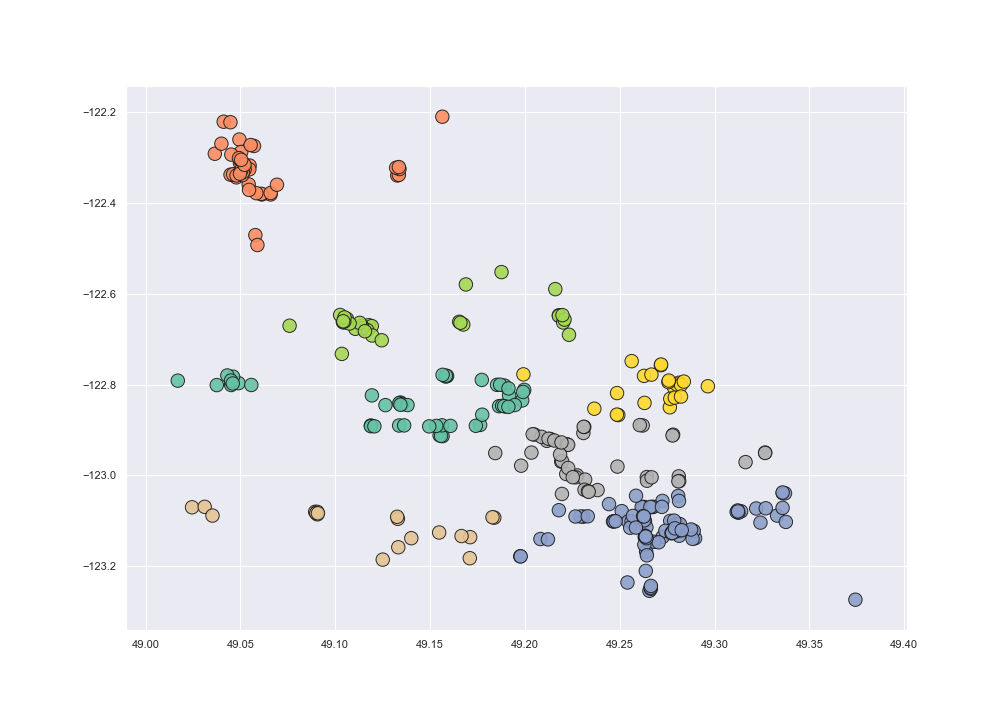
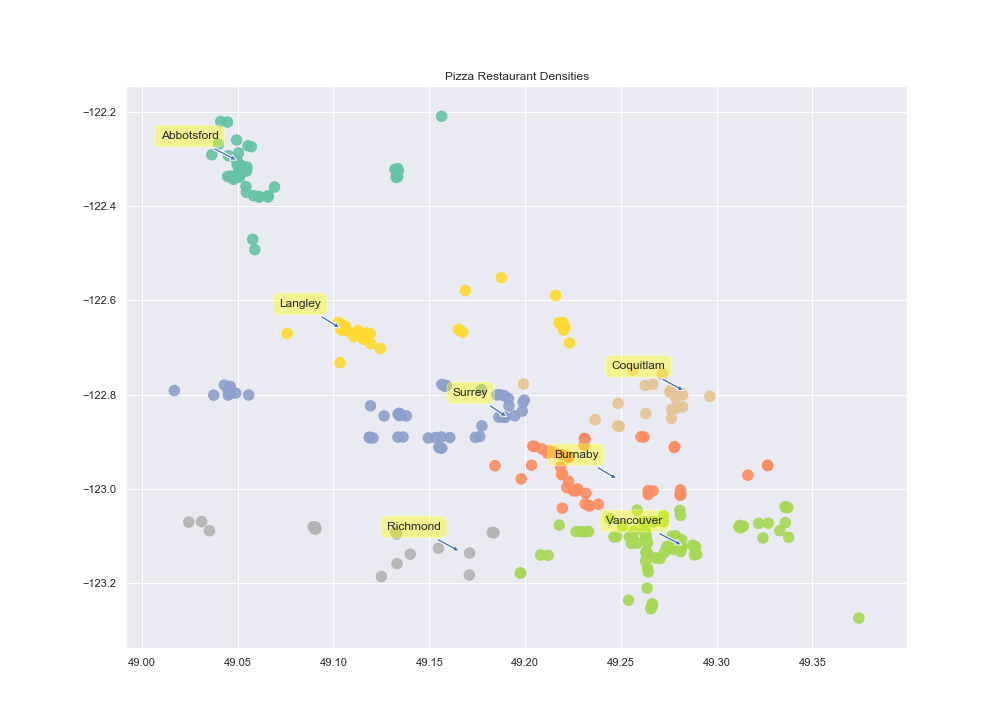
pizza clusters finished

diff --git a/data_exploration2.py b/data_exploration2.py
@@ -14,7 +14,7 @@ from sklearn.cluster import KMeans
 def get_clusters(X):
     # get_clusters() from Exercise 8 
     model = make_pipeline(
-        KMeans(n_clusters=7)
+        KMeans(n_clusters=7, algorithm='elkan')
         
         # Cities to look at:
         # ['Vancouver', 'Burnaby', 'Richmond', 'Coquitlam', 'Langley', 'Surrey', 'Abbotsford']   
@@ -149,22 +149,25 @@ def main():
     
     # center-of-city coordinates, courtesy of google
     city_labels = ['Vancouver', 'Burnaby', 'Richmond', 'Coquitlam', 'Langley', 'Surrey', 'Abbotsford']
-    cities_lat = [49.2827, 49.2488, 49.1666, 49.2838, 49.1042, 49.1913, 49.0504]
-    cities_lon = [-123.1207, -122.9805, -123.1336, -122.7932, -122.6604, -122.8490, -122.3045]
+    cities_lat = np.array([49.2827, 49.2488, 49.1666, 49.2838, 49.1042, 49.1913, 49.0504])
+    cities_lon = np.array([-123.1207, -122.9805, -123.1336, -122.7932, -122.6604, -122.8490, -122.3045])
     
-    # include these points in our pizza data set
-    pnp_lat = np.append(pnp_lat, cities_lat)
-    pnp_lon = np.append(pnp_lon, cities_lon)
-    pizza = pd.DataFrame({'lat': pnp_lat, 'lon': pnp_lon})
+    # let's make those clusters
+    pizza_clusters = get_clusters(pizza)
     
     # set custom labels for center-of-city points
+    # reference: https://stackoverflow.com/questions/5147112/how-to-put-individual-tags-for-a-scatter-plot
+    plt.subplots_adjust(bottom = 0.1)
+    plt.title('Pizza Restaurant Densities')
+    plt.scatter(pizza['lat'], pizza['lon'], marker='o', c=pizza_clusters, cmap='Set2', alpha=0.9, s=110)
+    for label, x, y in zip(city_labels, cities_lat, cities_lon):
+        plt.annotate(
+            label,
+            xy=(x, y), xytext=(-20,20),
+            textcoords='offset points', ha='right', va='bottom',
+            bbox=dict(boxstyle='round,pad=0.5', fc='yellow', alpha=0.4),
+            arrowprops=dict(arrowstyle = 'simple', connectionstyle='arc3,rad=0')) 
     
-    
-    # let's make some clusters!
-    pizza_clusters = get_clusters(pizza)  
-    
-    # let's plot these clusters!
-    plt.scatter(pizza['lat'], pizza['lon'], c=pizza_clusters, cmap='Set2', edgecolor='k', alpha=0.9, s=180)
     plt.savefig('pizza_clusters.png')   
     
     # Question: TBD (something about chain restaurants)
